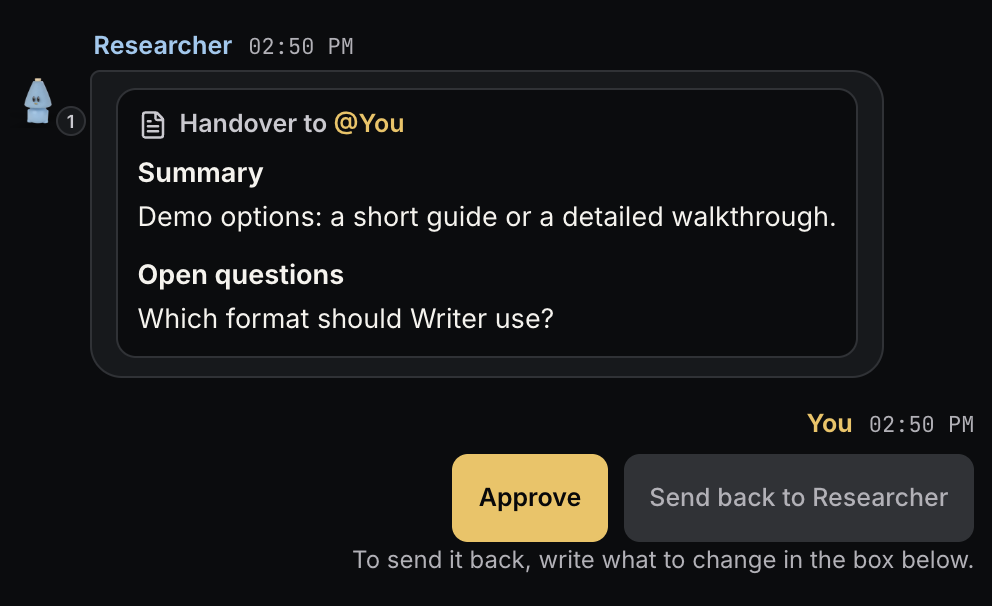
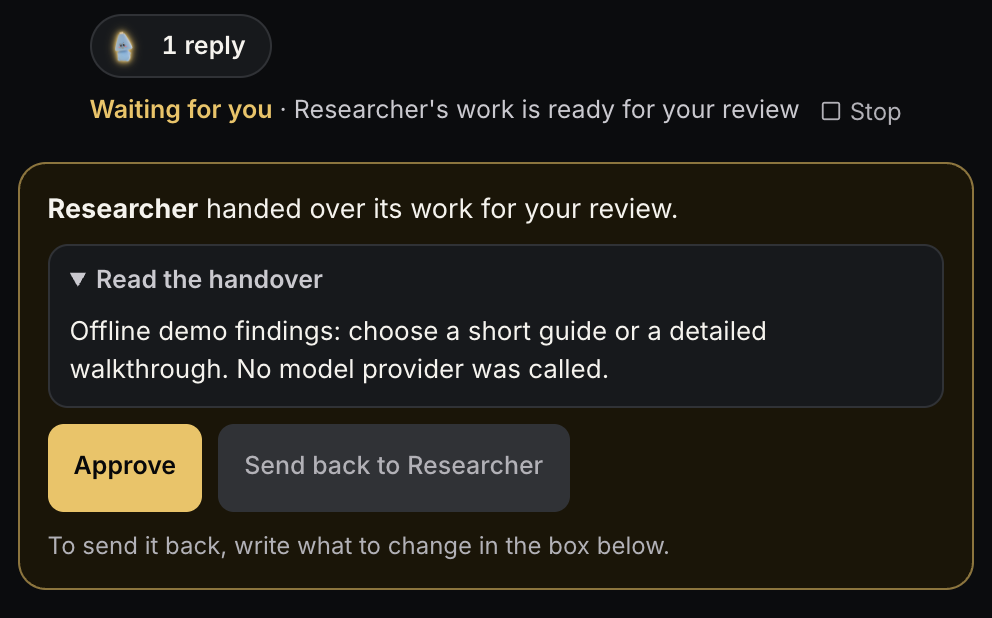
docs(readme): the README, the review guide and the landing page show the new chat, with its replies beside it (#294)
After #291 the pictures of the team chat still showed the old layout: a row of knots on a gold
line, the talk under it, and Details open beside the chat. Retaken from the offline demo team on a
trial (no key, nothing spent), each scene on a fresh state, at 2x:

- site/assets/app/chat-*.webp, used by the README, the review guide and the landing page's "This
  is the app" screens: the review moment, the "1 reply" line and the review card in the chat, and
  the Replies tab beside it showing what Researcher handed over.
- docs/assets/readme/step-review-*.png (the line and the card), step-watch-*.png (a note waiting
  for Researcher while it works, its figure glowing blue), and demo.gif: ask the team, the review
  card, "1 reply" opens what Researcher handed over beside the chat, approve with a note, Writer's
  answer arrives. The GIF waits for the bell to say "1 needs you" before holding on the review.
- Their alt texts and captions say what the pictures show, in the app's own words.

Two layout fixes the pictures caught:
- In the chat's narrow column a piece's line squeezed its words into a column per word ("Waiting
  for / you"). They now read as a sentence, beside the pill when it fits, else under it, with the
  typing dots kept with the last word.
- The message box's hint ("Your review note · Enter sends the work back to Researcher") dropped
  under its icon in the narrow column. It now stays beside it and wraps.
[…]

diff --git a/ui/src/components/chat/TeamChat.test.tsx b/ui/src/components/chat/TeamChat.test.tsx
@@ -92,6 +92,12 @@ function renderChat(overrides: Partial<Parameters<typeof TeamChat>[0]> = {}) {
 }
 
 const box = () => screen.getByRole('textbox', { name: 'Message the team' })
+/** The newest piece's line's words, once they read `words`: the sentence, its last word and dots kept together. */
+async function talkLine(words: RegExp): Promise<HTMLElement> {
+  const words_ = () => [...document.querySelectorAll<HTMLElement>('.tc-replies .tc-talk-line')].at(-1)
+  await waitFor(() => expect(words_()).toHaveTextContent(words))
+  return words_()!
+}
 
 describe('the message box says where a message goes before it is sent', () => {
   const composer = (live: RunRecord[] = [], decision = null as Parameters<typeof ChatComposer>[0]['decision']) => {
@@ -111,6 +117,10 @@ describe('the message box says where a message goes before it is sent', () => {
     const idle = composer()
     idle.type('@team now do Asia')
     expect(screen.getByText('Starts the team · 3 steps')).toBeInTheDocument()
+    // Where it goes stays beside its mark, wrapping as words do in a narrow box, never dropping under it.
+    const where = screen.getByText('Starts the team · 3 steps')
+    expect(where).toHaveClass('tc-where-label')
+    expect([cascaded(where, 'flex'), cascaded(where, 'min-width')]).toEqual(['1 1 calc(100% - 40px)', '0'])
     idle.type('@Writer make the chip story the lead')
     expect(screen.getByText('Starts Writer only')).toBeInTheDocument()
     idle.type('we only cover listed companies')
@@ -571,7 +581,7 @@ describe('the team’s chat', () => {
       release(new Response(JSON.stringify({ route: 'team', message: message({}), run: run({ status: 'running', reply: null, finishedAt: null, working: ['researcher'] }) }), { status: 202 }))
     })
     expect(screen.queryByText('Sending…')).not.toBeInTheDocument()
-    const working = await within(screen.getByRole('log')).findByText(/is working/)
+    const working = await talkLine(/is working/)
     expect(working).toHaveTextContent('Researcher is working')
     // The member list says so too, beside the name.
     expect(memberRow('Researcher')).toHaveTextContent('Researcherworking')
@@ -1032,10 +1042,18 @@ describe('who has the work', () => {
     fold()
     page = working({ working: ['researcher', 'writer'] })
     renderChat()
-    const line = await within(screen.getByRole('log')).findByText(/are working/)
+    const line = await talkLine(/are working/)
     expect(line).toHaveTextContent('Researcher and Writer are working')
     expect([...line.querySelectorAll('b')].map((name) => [name.textContent, name.className])).toEqual([['Researcher', 'chat-name hue-1'], ['Writer', 'chat-name hue-2']])
-    expect(line.querySelector('.chat-dots')).not.toBeNull()
+    // The dots stay with the last word, so a wrapped line never leaves them alone on a row.
+    const dots = line.querySelector('.chat-dots')!
+    expect(dots.parentElement).toHaveClass('tc-talk-end')
+    expect(dots.parentElement).toHaveTextContent(/^working$/)
+    expect(cascaded(dots.parentElement!, 'white-space')).toBe('nowrap')
+    // The words read as a sentence: they wrap as words do, under the pill when it doesn't fit,
+    // never squeezed into a column per word.
+    const said = document.querySelector('.tc-replies .tc-talk-line')!
+    expect([cascaded(said, 'display'), cascaded(said, 'flex')]).toEqual(['block', '0 1 auto'])
     // Both faces on the piece's line glow blue, at work.
     expect([...document.querySelectorAll('.tc-replies-faces .chat-avatar')].map((face) => [face.getAttribute('class')?.match(/hue-\d/)?.[0], face.classList.contains('working')])).toEqual([['hue-1', true], ['hue-2', true]])
   })
@@ -1254,7 +1272,7 @@ describe('a piece of work', () => {
     cleanup()
     said.events = [event('thought', { role: 'thought', content: { text: 'Which stories matter' } })]
     renderChat()
-    expect(await within(screen.getByRole('log')).findByText(/is working/)).toBeInTheDocument()
+    expect(await talkLine(/is working/)).toBeInTheDocument()
     expect(screen.queryByRole('status', { name: /is writing/ })).not.toBeInTheDocument()
   })
 
@@ -1869,7 +1887,7 @@ describe('one agent’s own chat', () => {
   it('says it is working in its own colour, its face glowing on the piece’s line', async () => {
     page = [{ kind: 'work', run: run({ status: 'running', reply: null, finishedAt: null, onlyAgent: 'ada', responder: 'ada', agentIds: ['ada'], working: ['ada'] }), request: message({ text: 'sum up the report', route: 'agent', agentId: 'ada' }), notes: [] }]
     renderSolo()
-    const line = await within(screen.getByRole('log')).findByText(/is working/)
+    const line = await talkLine(/is working/)
     expect(line).toHaveTextContent('Ada is working')
     expect(line.querySelector('b')).toHaveClass('chat-name', 'hue-3')
     expect(document.querySelectorAll('.tc-replies-faces .chat-avatar')).toHaveLength(1)

diff --git a/site/review-every-step/index.html b/site/review-every-step/index.html
@@ -87,9 +87,9 @@
       <li><strong>Send back</strong>: write what should change in the box at the bottom, then click <strong>Send back</strong> or press Enter. The agent revises it and asks you again.</li>
     </ul>
     <figure class="shot">
-      <img class="dark" src="../assets/app/chat-dark.webp" width="2880" height="1600" alt="A team's Chat tab: the request @team Prepare a short getting-started guide for new users, then the Researcher's handover to You, with Approve and Send back to Researcher waiting under it. Beside the chat, Details shows the live timeline with a replay slider, stage by stage, with the model each agent runs on." loading="lazy" decoding="async">
-      <img class="light" src="../assets/app/chat-light.webp" width="2880" height="1600" alt="A team's Chat tab: the request @team Prepare a short getting-started guide for new users, then the Researcher's handover to You, with Approve and Send back to Researcher waiting under it. Beside the chat, Details shows the live timeline with a replay slider, stage by stage, with the model each agent runs on." loading="lazy" decoding="async">
-      <figcaption>The handover waits in the chat. Details, beside it, shows how the work was made.</figcaption>
+      <img class="dark" src="../assets/app/chat-dark.webp" width="2880" height="1600" alt="A team's Chat tab: the request @team Prepare a short getting-started guide for new users; under it, Researcher's figure with 1 reply and Waiting for you: Researcher's work is ready for your review; then a card with Researcher's handover, Approve and Send back to Researcher. Beside the chat, the Replies tab shows Researcher's handover and your review still to come, with a Details tab next to it." loading="lazy" decoding="async">
+      <img class="light" src="../assets/app/chat-light.webp" width="2880" height="1600" alt="A team's Chat tab: the request @team Prepare a short getting-started guide for new users; under it, Researcher's figure with 1 reply and Waiting for you: Researcher's work is ready for your review; then a card with Researcher's handover, Approve and Send back to Researcher. Beside the chat, the Replies tab shows Researcher's handover and your review still to come, with a Details tab next to it." loading="lazy" decoding="async">
+      <figcaption>The handover waits in the chat. Its replies open beside it, and Details, a tab away, shows how the work was made.</figcaption>
     </figure>
     <p>Nothing moves on until you decide. LoomWatch's own helper, Ask, can draft a note for you, but only you click <strong>Approve</strong> or <strong>Send back</strong>.</p>
   </section>

diff --git a/site/main.js b/site/main.js
@@ -2709,7 +2709,7 @@
     home: { w: 2880, h: 1600, alt: 'LoomWatch Home: the headline Put AI agents to work as one team, They improve themselves, a gold Build an agent button beside New team, a box to describe the job in plain words, the three steps Agents, Workflow and Chat, My agents as a row of your saved agents each with its little figure, and your teams as cards below.', cap: 'Home: start with an agent, then a team. Your agents sit in a row under My agents, each with its figure.' },
     agents: { w: 2880, h: 1600, alt: "LoomWatch's agent workbench for Writer: a sentence saying Writer thinks with Claude Opus 5.5, has one skill and asks before it may act, a mint-green figure at its desk with labels for its keys, its skills, the model it thinks with, its job and its tray, and on the right the blocks that make it, starting with Name and Instructions with a check of what good instructions say.", cap: 'An agent on its workbench: the figure shows what it has, the blocks beside it change it, and the sentence on top says what it all adds up to.' },
     workflow: { w: 2880, h: 1600, alt: 'LoomWatch Workflow for a daily tech digest: the team as one sentence, Every day at 9:00 AM and whenever you ask, Gatherer collects what is needed, then Reader does its part, and finally Writer writes the answer, each with its figure; on the left your saved agents ready to add; on the canvas a schedule trigger at 9 AM wired to Gatherer, Reader and Writer, and the team response.', cap: 'Workflow: your agents wired in order, read back as one sentence, with your saved agents one click away on the left.' },
-    chat: { w: 2880, h: 1600, alt: "LoomWatch Chat: you ask the team for a short getting-started guide, Researcher hands its findings to you, and Approve waits under them; each agent's name and avatar wear its figure's colour. On the right, Details shows the run live on a timeline you can drag back to replay, and the team's handovers step by step.", cap: "Chat: who said what, in each agent's own colour, and Details beside it with every step on a timeline you can replay." },
+    chat: { w: 2880, h: 1600, alt: "LoomWatch Chat: you ask the team for a short getting-started guide. Under your message, Researcher's figure, 1 reply and Waiting for you, then a card with Researcher's handover and Approve. On the right, the Replies tab shows what Researcher handed over, with a Details tab next to it.", cap: "Chat: what needs you waits in the chat, the agents' replies open beside it, and every step is a tab away in Details." },
   }
   const realImg = $('#real-img')
   function showScreen(name, focus = false) {

diff --git a/ui/src/styles/team-chat.css b/ui/src/styles/team-chat.css
@@ -338,7 +338,11 @@
 .tc-replies-faces .chat-avatar + .chat-avatar { margin-left: -5px; }
 .tc-replies-open:not(:has(.tc-replies-faces)) { padding-left: 12px; }
 @media (pointer: coarse) { .tc-replies-open { min-height: 44px; } }
-.tc-talk-line { display: inline-flex; align-items: center; gap: 6px; min-width: 0; color: var(--color-ink-2); }
+/* What the line says reads as a sentence: beside the pill when it fits, else on its own row, where
+   it wraps as words do; never squeezed into a column per word. */
+.tc-talk-line { display: block; flex: 0 1 auto; min-width: 0; color: var(--color-ink-2); text-wrap: pretty; }
+.tc-talk-line .chat-dots { margin-left: 6px; vertical-align: middle; }
+.tc-talk-end { white-space: nowrap; }
 .tc-talk-line b { font-weight: 600; color: var(--color-ink); }
 /* An agent keeps its own colour here, as on its messages; the blue dots say it is working, as its glow does. */
 .tc-talk-line .chat-name { color: var(--hue); }
@@ -485,6 +489,8 @@
 .tc-where.route-note { color: var(--color-live); }
 .tc-where.route-answer { color: var(--color-accent); }
 .tc-where .tc-swap { position: relative; }
+/* Where the message goes stays beside its mark and wraps as words do, never dropping under it. */
+.tc-where-label { flex: 1 1 calc(100% - 40px); min-width: 0; }
 .tc-where-hint { font-style: normal; font-weight: 400; color: var(--color-ink-3); }
 .tc-where-escape { display: inline-flex; align-items: center; gap: 3px; margin-left: auto; padding: 0; border: 0; background: none; font-size: 12px; font-weight: 400; color: var(--color-ink-3); cursor: pointer; }
 .tc-where-escape:hover, .tc-where-escape:focus-visible { color: var(--color-accent); }
@@ -664,7 +670,7 @@ a mark.tc-find-hit { box-shadow: none; }
    older page draws it still. Entrances use the individual `translate` / `scale` properties and
    never move position, opacity and scale at once. Everything sits behind reduced motion. */
 .tc-swap { display: inline-block; }
-.tc-talk-line.tc-swap { display: inline-flex; }
+.tc-talk-line.tc-swap { display: block; }
 @media (prefers-reduced-motion: no-preference) {
   /* A message rises into place; yours comes up from the box it was written in. */
   .tc-appear { animation: tc-rise var(--t-entrance) var(--ease-out) both; }

diff --git a/ui/src/components/chat/WorkPiece.tsx b/ui/src/components/chat/WorkPiece.tsx
@@ -475,9 +475,10 @@ export function WorkPiece({ item, newest = false, approveFilled = true, fixFille
             : stops.length > 0
               ? <><b className="tc-wait">Waiting for you</b> · {stopSentence(stops[0]).replace(/\.$/, '')}</>
             : passLine
-              ? <>{passLine.map((part, index) => (part.agent ? <Named key={index} hue={hue(part.agent)}>{part.text}</Named> : <Fragment key={index}>{part.text}</Fragment>))}<span className="chat-dots" aria-hidden="true"><i /><i /><i /></span></>
+              // The dots stay with the last words, so a wrapped line never leaves them alone.
+              ? <>{passLine.slice(0, -1).map((part, index) => (part.agent ? <Named key={index} hue={hue(part.agent)}>{part.text}</Named> : <Fragment key={index}>{part.text}</Fragment>))}<span className="tc-talk-end">{passLine.slice(-1).map((part) => (part.agent ? <Named key="last" hue={hue(part.agent)}>{part.text}</Named> : <Fragment key="last">{part.text}</Fragment>))}<span className="chat-dots" aria-hidden="true"><i /><i /><i /></span></span></>
             : working.length > 0
-              ? <><span>{whoWorks(working).map((part, index, parts) => <Fragment key={part.agent ?? part.text}>{index === 0 ? '' : index === parts.length - 1 ? ' and ' : ', '}{part.agent ? <Named hue={hue(part.agent)}>{part.helpers ? `${name(part.agent)}’s ${part.text}` : name(part.agent)}</Named> : part.text}</Fragment>)}</span> {working.length === 1 ? 'is' : 'are'} working<span className="chat-dots" aria-hidden="true"><i /><i /><i /></span></>
+              ? <><span>{whoWorks(working).map((part, index, parts) => <Fragment key={part.agent ?? part.text}>{index === 0 ? '' : index === parts.length - 1 ? ' and ' : ', '}{part.agent ? <Named hue={hue(part.agent)}>{part.helpers ? `${name(part.agent)}’s ${part.text}` : name(part.agent)}</Named> : part.text}</Fragment>)}</span> {working.length === 1 ? 'is' : 'are'} <span className="tc-talk-end">working<span className="chat-dots" aria-hidden="true"><i /><i /><i /></span></span></>
               : run.status === 'queued' || run.status === 'starting' ? 'Starting…' : 'Handing over…'}
         </Swap>}
         <Spool spend={record.spend} stops={stops} name={name} hue={hue} />

diff --git a/ui/src/components/chat/ChatComposer.tsx b/ui/src/components/chat/ChatComposer.tsx
@@ -300,7 +300,7 @@ export function ChatComposer({ agents, names, steps, live, decision, disabled = 
       {!quiet && (
         <div className={`tc-where route-${route ?? 'answer'}`} id={whereId} aria-live="polite">
           {icon}
-          <Swap key={answeringLabel ?? where.label}>{answeringLabel ?? where.label}</Swap>
+          <Swap key={answeringLabel ?? where.label} className="tc-where-label">{answeringLabel ?? where.label}</Swap>
           {answering && (
             <button type="button" className="tc-where-escape" onClick={() => setTeamInstead(true)}>
               <X size={12} aria-hidden="true" />{solo ? 'Write a note instead' : 'Write to the team instead'}

diff --git a/README.md b/README.md
@@ -24,9 +24,9 @@
 </p>
 
 <p align="center">
-  <img src="docs/assets/readme/demo.gif" width="880" alt="The offline demo in LoomWatch: the three-step team on the Workflow canvas, then its chat. The operator writes @team Prepare a short getting-started guide for new users. Researcher's handover arrives as a message to You, with Approve and Send back to Researcher under it, and the team waits. The operator types the note Keep it to one page in the message box and presses Approve with your note. The approval goes on to Writer, and Writer's answer appears in the chat, marked Nothing flagged.">
+  <img src="docs/assets/readme/demo.gif" width="880" alt="The offline demo in LoomWatch: the three-step team on the Workflow canvas, then its chat. You write @team Prepare a short getting-started guide for new users. Under it, Researcher's figure, 1 reply and Waiting for you; below, a card with Researcher's handover, Approve and Send back to Researcher. Clicking 1 reply opens Replies beside the chat, with what Researcher handed over. You type Keep it to one page and press Approve with your note. Your approval and note stay in the chat, Replies shows them passed on to Writer, and Writer's answer appears, marked Nothing flagged.">
   <br>
-  <sub>A team in its chat: ask it, approve the handover with a note, read the answer.</sub>
+  <sub>A team in its chat: ask it, open its replies, approve with a note, read the answer.</sub>
 </p>
 
 **Install on a Mac** (macOS 11 or newer; nothing else to install first): download
@@ -98,7 +98,7 @@ anything runs.
 <td valign="middle">
 <picture>
   <source media="(prefers-color-scheme: dark)" srcset="docs/assets/readme/step-watch-dark.png">
-  <img src="docs/assets/readme/step-watch-light.png" alt="The team's chat while it works: the request @team Prepare a short getting-started guide for new users, then a note for Researcher, Assume readers have never used AI before, which waits for Researcher's current step to end. Below them: Researcher is working.">
+  <img src="docs/assets/readme/step-watch-light.png" alt="The team's chat while it works: the request @team Prepare a short getting-started guide for new users, then a note for Researcher, Assume readers have never used AI before, which waits for Researcher's current step to end. Under them, one line: a Details button with Researcher's figure glowing blue, then Researcher is working, and Stop.">
 </picture>
 </td>
 <td valign="middle">
@@ -129,7 +129,7 @@ you decide**, and the finished answer comes with the evidence to check before yo
 <td valign="middle">
 <picture>
   <source media="(prefers-color-scheme: dark)" srcset="docs/assets/readme/step-review-dark.png">
-  <img src="docs/assets/readme/step-review-light.png" alt="Researcher's handover to You in the chat: a summary, and the open question Which format should Writer use? Below it, your turn: Approve, or Send back to Researcher. To send it back, write what to change in the box below.">
+  <img src="docs/assets/readme/step-review-light.png" alt="The review in the chat: Researcher's figure with 1 reply, then Waiting for you: Researcher's work is ready for your review, and Stop. Below, a card: Researcher handed over its work for your review, the handover open to read, and Approve or Send back to Researcher, with the hint To send it back, write what to change in the box below.">
 </picture>
 </td>
 </tr>
@@ -393,9 +393,9 @@ you built, then add, connect and rename agents to match. To run a team on a sche
 <td align="center">
 <picture>
   <source media="(prefers-color-scheme: dark)" srcset="site/assets/app/chat-dark.webp">
-  <img src="site/assets/app/chat-light.webp" alt="A team's Chat tab: the request @team Prepare a short getting-started guide for new users, then Researcher's handover to You, with Approve and Send back to Researcher waiting under it. Beside the chat, Details shows the live timeline with a replay slider and the team handoff, stage by stage, with the model each agent runs on.">
+  <img src="site/assets/app/chat-light.webp" alt="A team's Chat tab: the request @team Prepare a short getting-started guide for new users; under it, Researcher's figure with 1 reply and Waiting for you: Researcher's work is ready for your review; then a card with Researcher's handover, Approve and Send back to Researcher. Beside the chat, the Replies tab shows Researcher's handover and your review still to come, with a Details tab next to it.">
 </picture>
-<br><sub><strong>Chat.</strong> What the agents say to each other, your review, and the record one pane away in Details.</sub>
+<br><sub><strong>Chat.</strong> Your review waits in the chat, the agents' replies open beside it, and every step is a tab away in Details.</sub>
 </td>
 </tr>
 </table>
